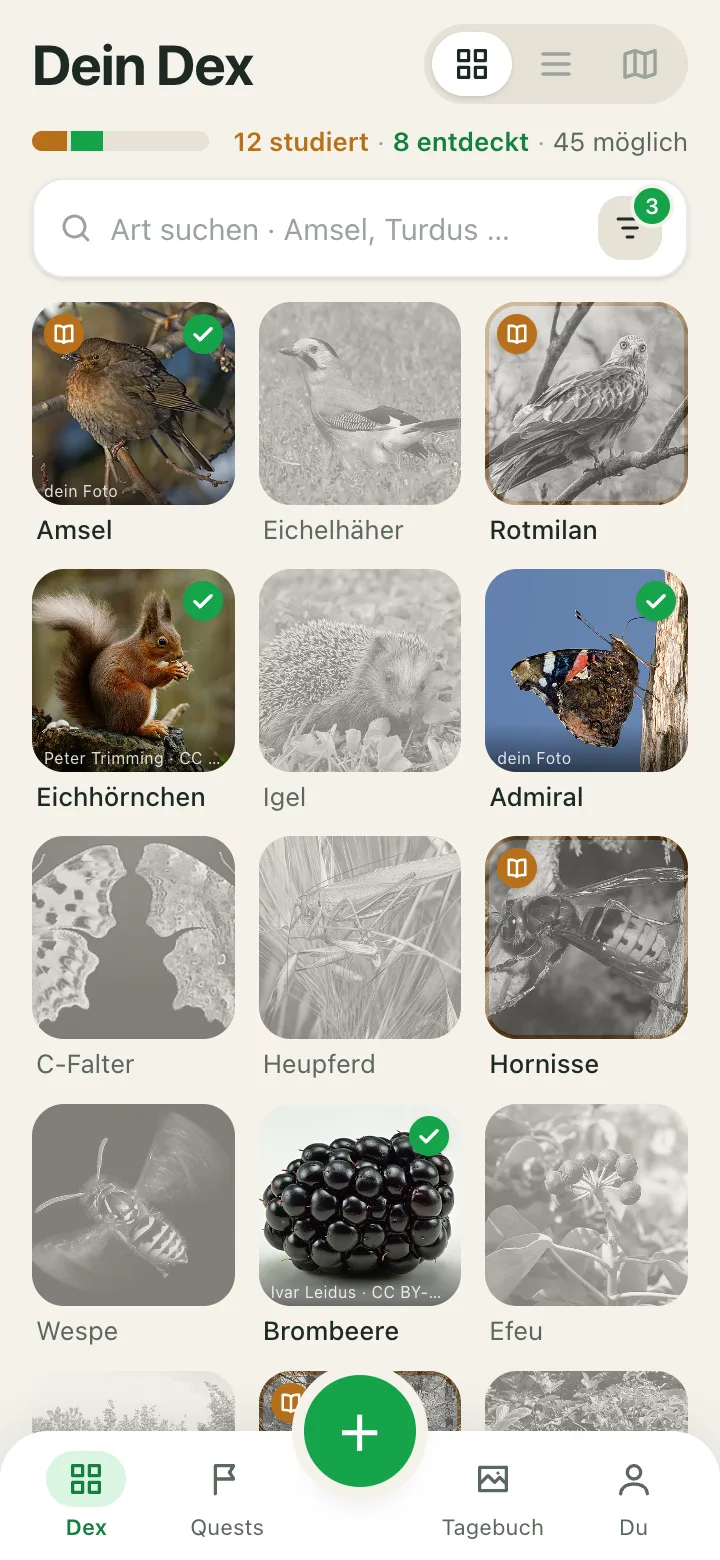
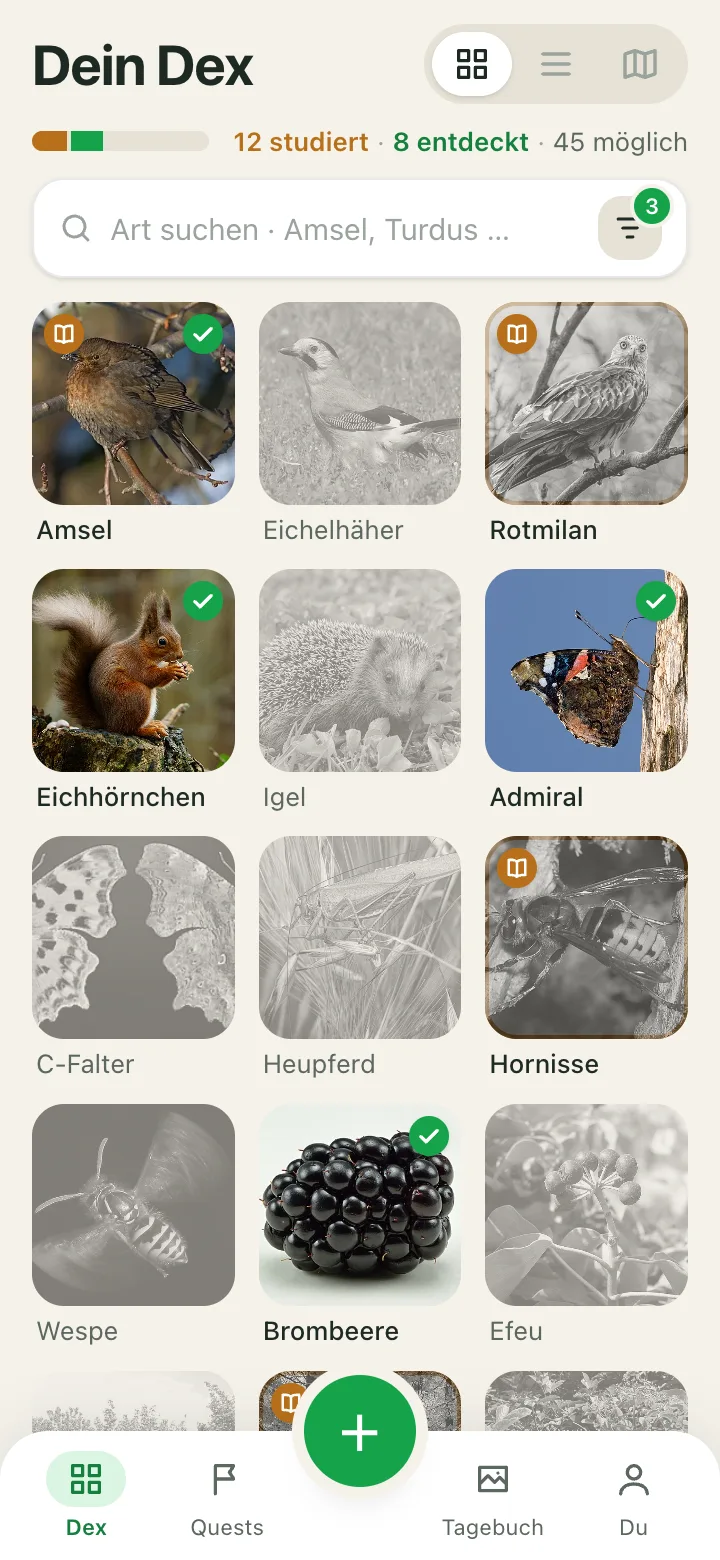
Close review 0003: spec §🎨 chosen, §⚖ rewritten, record Q8c and freeze addenda
Spec: every screen ✅ with pick, reason and shots; denominator, Landkreis and
month in §🧬; locations ladder, private progression and attribution per image
view in §⚖; bottom bar and i18n in §🏗. Record §📎: Q8c XP as private
progression, freeze removed. Findings: answers to the blocking doubts.
Spike: "ohne Punkte" → "ohne Rangliste", per-cell captions dropped, shots
reshot; stale silhouette-era shots kept under docs/adr/…/superseded/.

diff --git a/spike/ui/src/screens/GridA.tsx b/spike/ui/src/screens/GridA.tsx
@@ -32,9 +32,6 @@ function Cell({ s, filling = false }: { s: Species; filling?: boolean }) {
         {(st === 'seen' || st === 'both') && photo && (
           <>
             <img src={photo.url} alt="" className="h-full w-full object-cover" loading="lazy" />
-            <span className="absolute inset-x-0 bottom-0 truncate bg-gradient-to-t from-black/55 to-transparent px-1.5 pt-3 pb-0.5 text-[8px] leading-tight text-white/85">
-              {s.state.userPhoto ? 'dein Foto' : `${photo.author.split(/[,(]/)[0].trim()} · ${photo.license}`}
-            </span>
           </>
         )}
         {filling && photo && <img src={photo.url} alt="" className="absolute inset-0 h-full w-full object-cover" />}
@@ -59,7 +56,7 @@ export default function GridA({ fill, hideBar = false }: { fill?: string; hideBa
       <div className="grid grid-cols-3 gap-x-3 gap-y-3 px-4">
         {order.map((s) => <Cell key={s.id} s={s} filling={s.id === fill} />)}
       </div>
-      <p className="px-4 pt-4 text-[11px] text-ink-faint">Graue Bilder: Wikimedia Commons und iNaturalist, Lizenz und Autor auf jeder Artseite. Farbig wird, was du findest.</p>
+      <p className="px-4 pt-4 text-[11px] text-ink-faint">Bilder: Wikimedia Commons und iNaturalist, Autor und Lizenz auf jeder Artseite. Farbig wird, was du entdeckst.</p>
       {!hideBar && <BottomBar />}
     </Screen>
   )

diff --git a/spike/ui/src/screens/Quests.tsx b/spike/ui/src/screens/Quests.tsx
@@ -86,7 +86,7 @@ export function Quests() {
       </header>
       <div className="space-y-3 px-4">
         {walk ? <WalkPlan /> : QUESTS.map((q) => <QuestCard key={q.id} q={q} />)}
-        <p className="pt-1 text-[12px] leading-snug text-ink-faint">Quests werden montags aus deinem Dex erzeugt: was jetzt draußen ist, was womit zusammenhängt, was du studiert und entdeckt hast. Keine Punkte, keine Serie, kein Ort.</p>
+        <p className="pt-1 text-[12px] leading-snug text-ink-faint">Quests werden montags aus deinem Dex erzeugt: was jetzt draußen ist, was womit zusammenhängt, was du studiert und entdeckt hast. Keine Rangliste, keine Serie, kein Ort.</p>
         <section className="pt-3">
           <h2 className="mb-2 text-[15px] font-bold text-ink-soft">Letzte Woche</h2>
           <ul className="divide-y divide-ink/5 rounded-2xl bg-card px-3 shadow-sm ring-1 ring-ink/5">

diff --git a/spike/ui/src/screens/Onboarding.tsx b/spike/ui/src/screens/Onboarding.tsx
@@ -15,7 +15,7 @@ export function OnboardRegion({ variant = 'location' }: { variant?: 'location' |
       <div className="relative px-6 pb-8">
         <p className="text-[13px] font-semibold tracking-wide text-moss-soft uppercase">Standkreis Dex</p>
         <h1 className="mt-1 text-[32px] leading-[1.1] font-bold">Alles, was vor deiner Haustür lebt.</h1>
-        <p className="mt-2 text-[16px] text-white/80">Lern es kennen. Find es draußen. Ohne Konto, ohne Punkte.</p>
+        <p className="mt-2 text-[16px] text-white/80">Lern es kennen. Find es draußen. Ohne Konto, ohne Rangliste.</p>
         <div className="mt-8">
           <p className="text-[13px] text-white/70">Wo gehst du spazieren?</p>
           {variant === 'location' ? (

diff --git a/spike/ui/src/screens/Settings.tsx b/spike/ui/src/screens/Settings.tsx
@@ -108,7 +108,7 @@ export function Settings() {
           <Row label="Open Source" value="GitHub" />
           <Row label="Version" value="0.1 · Spike" />
         </Group>
-        <p className="pb-2 text-center text-[12px] leading-snug text-ink-faint">Kein Konto, keine Punkte, keine Werbung. Kostenlos, für immer.</p>
+        <p className="pb-2 text-center text-[12px] leading-snug text-ink-faint">Kein Konto, keine Rangliste, keine Werbung. Kostenlos, für immer.</p>
       </div>
       <BottomBar active="you" />
     </Screen>

diff --git a/docs/specs/0001-standkreis-dex-the-first-walk.md b/docs/specs/0001-standkreis-dex-the-first-walk.md
@@ -4,7 +4,7 @@
 
 | 🗓 Date | 👤 Owner | 🎯 Status |
 | --- | --- | --- |
-| 2026-09-04 | Sven Reiser | Grilled · awaiting UI exploration (step 4) |
+| 2026-09-04 | Sven Reiser | Grilled · UI chosen ([review 0003](../handoffs/0003-ui-spike-review.md)) · next: the Next.js scaffold |
 
 ---
 
@@ -26,7 +26,7 @@ A **personal collection layer over open biodiversity data**, on web and phone, t
 | --- | --- |
 | A species-identification engine | The ID engine is a commodity you rent (Pl@ntNet, BioCLIP 2). iNaturalist's model is closed. Accuracy is not the moat. |
 | A science platform | No identifier community, no research-grade pipeline. Sightings can be *exported* to iNaturalist later; they are never *the* dataset. |
-| A leaderboard | Volume rewards degrade behaviour and churn users. No XP, no global ranks, no rarity multipliers. |
+| A leaderboard | Volume rewards degrade behaviour and churn users. No ranks, no comparison, no rarity multipliers. XP exists as **private progression** (record Q8c): capped, never shown to anyone else, never on a share card. |
 | A social network in v1 | Share-out cards only. Friends and feeds are possible later on the same identity model, and are where every competitor's ethics problems live. |
 | A foraging or toxicity guide | The best app scores 74% on real poisoning cases. Fungi are in the dex; edibility is never stated. |
 | A reading app | Learning is progress, but only *seeing* fills a silhouette. See §Two axes. |
@@ -68,22 +68,24 @@ stateDiagram-v2
     Silhouette --> Seen : log sighting
     Studied --> StudiedAndSeen : log sighting
     Seen --> StudiedAndSeen : mark studied
-    state "Silhouette" as Silhouette
-    state "Studied · outlined + mark" as Studied
-    state "Seen · filled" as Seen
-    state "Studied + Seen · filled + mark" as StudiedAndSeen
+    state "Not yet · greyscale" as Silhouette
+    state "Studied · amber ring + 📖" as Studied
+    state "Seen · colour + ✓" as Seen
+    state "Studied + Seen · colour + both" as StudiedAndSeen
 ```
 
 | Axis | Set by | Renders as | Counts on home |
 | --- | --- | --- | --- |
-| 📖 **Studied** | Opening the species page and marking it, optionally passing a two-question recap | Outlined silhouette with a mark | "42 studied" |
-| 👁 **Seen** | Logging a sighting: claimed (no proof), photographed, or ID-assisted | Filled with your photo if there is one, else the reference image | "17 found" |
+| 📖 **Studied** | Opening the species page and marking it. XP for studied is paid only after the two-question recap; until the recap exists, studied earns nothing | Greyscale image, amber ring and 📖 | "12 studiert" |
+| 👁 **Seen** | Logging a sighting: claimed (no proof), photographed, or ID-assisted | Colour photo, yours if there is one, else the reference image, and a green ✓ | "8 entdeckt" |
+
+Both counters sit over a **denominator**, the plausible set of the active filter: "12 studiert · 8 entdeckt · 22 möglich". It changes with region, groups and month. Du shows the same three numbers over the whole year; the gap between the two is the seasonal pull and stays visible. The denominator is not a score.
 
 Learning makes winter a season instead of a churn cliff. Seeing stays the only thing that fills the grid, so the walk stays the payoff. Quests (deferred) bridge the two: *study three species that arrive in April* → *the three you studied are flying now within 10 km*.
 
 ### The plausible set
 
-The dex shows the species with **enough recorded observations in your filter region**, computed from GBIF and iNaturalist occurrence facets per grid cell, thresholded, optionally per month. Move the region, the dex changes. Logging searches the **full GBIF backbone**, so anything found outside the set joins your dex the moment you see it.
+The dex shows the species with **enough recorded observations in your filter region**, computed from GBIF and iNaturalist occurrence facets per grid cell, thresholded, per month. Month ("Zeitraum") is a first-class part of the filter and defaults to now; "Ganzes Jahr" is the other option. The user picks and sees a **Landkreis** ("Mainz-Bingen"); plausibility is computed over the union of its cells. Move the region, the dex changes. Logging searches the **full GBIF backbone**, so anything found outside the set joins your dex the moment you see it.
 
 The threshold is the curation. Tune it until "what I could find on Saturday" is what the grid shows; that tuning is a first-slice task, not a later one.
 
@@ -99,7 +101,7 @@ The threshold is the curation. Tune it until "what I could find on Saturday" is 
 | Intro text | Wikipedia in the user's language | CC BY-SA | Attribute, share-alike on the text |
 | **Ecology: interactions** | **GloBI** API: eats, eatenBy, pollinates, hostOf, parasiteOf, visitsFlowersOf | per source, mostly CC0/CC BY | The one thing no competitor has |
 | Ecology: habitat, traits | EOL TraitBank, IUCN habitat classification | CC BY / research use | Coverage uneven; honest empty states |
-| Photos | Wikimedia Commons; iNaturalist CC0 / CC BY / CC BY-NC | per file | **Per-image attribution stored and rendered** |
+| Photos | Wikimedia Commons; iNaturalist CC0 / CC BY / CC BY-NC | per file | **Attribution stored per image, rendered per image view** (§⚖) |
 | Sounds | Xeno-canto API v3 (key required) | mostly CC BY-NC-SA | Fine under free-forever |
 | Plant ID assist (deferred) | Pl@ntNet API | free 500/day, non-profit tier | |
 | Everything-else ID assist (deferred) | BioCLIP 2, self-hosted | MIT | ViT-L, server-side |
@@ -119,10 +121,11 @@ Every asset carries its licence and attribution in the database. If free-forever
 | Species data | **ETL into Postgres**: taxa, plausibility per cell/month, interactions, assets with attribution. Refreshed on a schedule, not at request time | Nature APIs are slow and rate-limited; the dex must open offline-ish |
 | Offline | Service worker caches the dex for the active filter; sightings queue and sync | Nature has no signal |
 | Geo | GeoJSON in ordinary columns, grid-cell keys for plausibility. No PostGIS unless the cell math outgrows a loop | Same standing constraint as the sibling repos |
+| Language | German and English from the scaffold, every string behind an i18n key | The owner is user #1 and German; the product is global. Vocabulary is fixed in German first (studiert · entdeckt) |
 
 ### Navigation
 
-Bottom app bar. Home is **the dex under the global filter**, grid view in the first slice, list and map views deferred. Filters (region, species groups) are first-class and set during onboarding.
+Bottom app bar **Dex · Quests · ＋ · Tagebuch · Du**; the ＋ is an action, not a tab. Home is **the dex under the global filter**, grid view in the first slice, list and map views deferred. Filters (region, groups, month) are first-class and set during onboarding. In slice one the Quests tab holds a single "kommt bald" line (Q10 stands); Tagebuch is the sightings by day; Du is counters, XP, groups, export, delete and the passkey upgrade, with Einstellungen behind a gear.
 
 ---
 
@@ -146,7 +149,7 @@ flowchart LR
 
 - [ ] Onboarding sets a region and species groups in under a minute, no account, no permission dialogs before they're needed.
 - [ ] Home shows the plausible set for that filter as a silhouette grid, and the set feels like "what I could find on Saturday" to Sven.
-- [ ] A species page composes GBIF, Wikidata, Wikipedia and GloBI, renders per-image attribution, and shows an honest empty state where a source has nothing.
+- [ ] A species page composes GBIF, Wikidata, Wikipedia and GloBI, renders attribution per image view (caption under the image, one Quellen line per page), and shows an honest empty state where a source has nothing.
 - [ ] Marking a species studied changes its rendering in the grid and the home counter.
 - [ ] Logging a sighting by search and claim, with or without a photo, fills the silhouette and updates the counter. Species outside the plausible set are searchable and join the dex.
 - [ ] Sightings and studies persist under the anonymous identity, survive a reload, and sync to a second browser once a passkey is attached.
@@ -173,30 +176,38 @@ flowchart LR
 | Rule | Mechanism |
 | --- | --- |
 | Sensitive species never show precise locations to anyone but their observer | Auto-obscure IUCN threatened and nationally protected taxa to a cell; coarsen all locations on share cards; strip EXIF GPS on share |
+| Locations go down a ladder | Stored exact on the device; shown as **Gemeinde** on every list (Tagebuch, save screen); exact only on the single sighting; the 10 km cell on the species map; coarse on anything shared. The save screen says so: "genau gespeichert · geteilt nur grob" |
+| Progression is private | XP and level appear on Du and on Tagebuch rows only: never on a share card, never compared to anyone, no decay, no streak, no rarity multiplier, repeats capped to once per species and month. Studied pays only after the recap. The only public-facing numbers are the two counters and their denominator |
 | No incentive to approach, handle or disturb | No rarity multipliers, no location-pinned quests, quest on habitats and seasons not coordinates |
 | Wild only | Wild / captive / cultivated prompt on sighting; captive sightings never fill the dex |
 | No lethal certainty | No edibility or toxicity statements of our own anywhere. Third-party intro text (Wikipedia) may mention it; fungi pages carry a standing legal notice: no statement, no guarantee, text not checked by us |
 | Your data is yours | Export and delete in one screen, both identity states |
 | No AI-generated imagery | User photos or licensed reference images with attribution |
+| Attribution per image view | Caption on every image at readable size (species page, fill sheet, onboarding splash); one sources line under the grid and one Quellen line at the bottom of every species page; full author and licence on long-press. No caption per grid cell. Copied Wikipedia intros carry CC BY-SA share-alike until they are rewritten from the facts |
+| Name and photo are yours | Both optional, local only, never in a sync payload before a passkey exists, never on a share card |
 
 ---
 
-## 🎨 UI (step 4, in progress)
+## 🎨 UI (step 4, chosen)
 
-Explored in [handoff 0002](../handoffs/0002-ui-exploration-spike.md); variants and reasons in the [findings](../handoffs/0002-ui-exploration-findings.md). ✅ = chosen by the owner, 🔍 = still in exploration.
+Explored in [handoff 0002](../handoffs/0002-ui-exploration-spike.md); variants, owner picks and the 46 doubts in the [findings](../handoffs/0002-ui-exploration-findings.md); checks and answers in [review 0003](../handoffs/0003-ui-spike-review.md). Every screen ✅.
 
-1. 🔍 **Onboarding**: region, species groups, the promise, in under a minute, engaging not a form.
-2. ✅ **Dex grid**: flat 3-column tiles with the German name under each; silhouette = grey filled shape, studied = amber outline + open-book badge, seen = photo fills the tile (own photo first, else the reference image), studied + seen = photo + badge. Two counters plus the plausible total as denominator. One search field with a filter button that shows only the count of active filters; region, month, groups, state and sort live in a bottom drawer. [Grid](../adr/0001-standkreis-dex-the-first-walk/0002-grid-a.webp) · [drawer](../adr/0001-standkreis-dex-the-first-walk/0002-grid-a-filter-drawer.webp). Rejected: photo cut into a generic silhouette, per-cell state text.
-3. ✅ **Species page**: full page. Full-width image slider with attribution under it, three names, the two-axis state line, singular tags (Vogel · einheimisch · IUCN), intro with Wikipedia attribution, year strip in words and bars, OpenStreetMap map with the coarse 10 km cell, ecology as chip rows grouped by kind where each chip carries the target's own dex state, honest empty state, sticky "Gelernt" and "Gesehen" buttons. Fungus pages carry the legal notice. [Amsel](../adr/0001-standkreis-dex-the-first-walk/0002-species-p1-amsel.webp) · [Fliegenpilz](../adr/0001-standkreis-dex-the-first-walk/0002-species-p1-fungus-notice.webp). Rejected: radial graph, bottom sheet. Back must restore the grid's filter and scroll position.
-4. 🔍 **Log a sighting**: search, claim, optional photo, wild/captive, done in three taps outdoors in sunlight.
-5. ✅ **The fill moment**: in the grid, not over it. The cell irises from silhouette to photo (own photo, else the reference image) with a green ring and the found counter ticking once; a compact sheet from below names what was saved ("Gefunden · Eichelhäher · 4. Sep · Mainz-Bingen · Ort grob gespeichert"), labels a reference-image fill with its attribution, offers "Foto" only when none is attached, and leads on with "Zur Art ›". No acknowledge button, no confetti, no number beyond the counter. One medium haptic when the photo lands. Repeat finds get a quiet toast and no fill. [Reference fill](../adr/0001-standkreis-dex-the-first-walk/0002-fill-sheet.webp) · [own photo](../adr/0001-standkreis-dex-the-first-walk/0002-fill-sheet-own-photo.webp). Rejected: full-screen card (a share card in disguise), silhouette outline resting on the photo.
-6. 🔍 **Bottom bar**: which four or five destinations.
+1. ✅ **Onboarding**: three screens, one action each. A dark photographic splash with a real Commons photo and its caption, the promise, then "Meinen Standort nutzen" with the OS permission explained *before* it appears ("wir speichern nur den Landkreis"), "Ort eingeben" as the fallback. Groups as tiles, all on, tap to switch off. A ready screen with the filtered count for this month, nine grey tiles and one line per axis. No account or sync mention before the first sighting. Reason: outdoors nobody types, and the explained ask is what Seek never did. [region](../adr/0001-standkreis-dex-the-first-walk/0002-onboard-1-region.webp) · [groups](../adr/0001-standkreis-dex-the-first-walk/0002-onboard-2-groups.webp) · [ready](../adr/0001-standkreis-dex-the-first-walk/0002-onboard-3-ready.webp). Rejected: search first, a skip on the groups screen.
+2. ✅ **Dex grid**: flat 3-column tiles with the German name under each. Not yet discovered = the reference image in greyscale at 45 %; studied = greyscale at 70 % with an amber inset ring and a 📖 badge; discovered = colour photo (own first, else the reference image) with a green ✓; both badges when both. Header: title, grid · list · map toggle, one bar amber-then-green with "12 studiert · 8 entdeckt · 22 möglich", möglich being the active filter's set. One search field with a filter button that shows only the count; region, Zeitraum, groups, state and sort in a bottom drawer; a bottom-right button takes over once the bar scrolls away. One sources line under the grid, no caption per cell. Back restores filter and scroll. [grid](../adr/0001-standkreis-dex-the-first-walk/0002-grid-a.webp) · [dark](../adr/0001-standkreis-dex-the-first-walk/0002-grid-a-dark.webp) · [drawer](../adr/0001-standkreis-dex-the-first-walk/0002-grid-a-filter-drawer.webp) · [360](../adr/0001-standkreis-dex-the-first-walk/0002-grid-a-360.webp). Rejected: group silhouettes (generic, not reproducible), photo cut into a silhouette, per-cell state text, the "likely now" dot.
+3. ✅ **Species page**: full page. Image slider with the caption under it, three names, the two-axis state row (📖 studiert · ✓ entdeckt · date), the Wikipedia intro, then sections: **Steckbrief** (Größe · Alter · Nachwuchs · Lebensraum · Zug · Status · Stimme), **Vorkommen** (year strip in words and bars, OpenStreetMap with the 10 km cell), **Verwechslungsgefahr** (look-alike tiles carrying dex state), **Ökologie** (chip rows by kind, each chip carrying the target's dex state, honest empty state). One faint Quellen line at the bottom; section headers carry no source. Sticky "Studiert" and "Entdeckt". Fungus pages carry the legal notice above the intro. [Amsel](../adr/0001-standkreis-dex-the-first-walk/0002-species-p1-amsel.webp) · [sections](../adr/0001-standkreis-dex-the-first-walk/0002-species-p1-amsel-scrolled.webp) · [bottom](../adr/0001-standkreis-dex-the-first-walk/0002-species-p1-amsel-scrolled-2.webp) · [Fliegenpilz](../adr/0001-standkreis-dex-the-first-walk/0002-species-p1-fungus-notice.webp) · [dark](../adr/0001-standkreis-dex-the-first-walk/0002-species-p1-amsel-dark.webp). Rejected: radial graph, sheet over grid, 4:3 hero, an ecology score, a "Beschreibung" heading.
+4. ✅ **Log a sighting**: the centred ＋ opens a chooser (Foto · Galerie · Suchen, Suchen primary). Search with an empty query *is* the shortlist ("jetzt wahrscheinlich · noch nicht entdeckt"); typing searches the whole backbone. Save on one screen: species, when, where ("genau gespeichert · geteilt nur grob"), optional photo, note; the save button is the wild/captive answer, "Wild · speichern" primary and "Gehalten · speichern" secondary. Three taps outdoors. "Entdeckt" on a species page jumps straight to the save screen. Reason: the wild/captive question is unavoidable but free, and the camera is visible but not first (Q10). [chooser](../adr/0001-standkreis-dex-the-first-walk/0002-log-1-chooser.webp) · [shortlist](../adr/0001-standkreis-dex-the-first-walk/0002-log-2-search-empty.webp) · [results](../adr/0001-standkreis-dex-the-first-walk/0002-log-2-search-results.webp) · [save](../adr/0001-standkreis-dex-the-first-walk/0002-log-3-save.webp). Rejected: a separate wild/captive dialog, camera as the default tile, a confirm step after save.
+5. ✅ **The fill moment**: in the grid, not over it. The cell sweeps from grey to colour (own photo, else the reference image) with a green ring and the entdeckt counter ticking once; a compact sheet from below names what was saved ("Entdeckt · Eichelhäher · 4. Sep · Mainz-Bingen · Ort grob gespeichert"), labels a reference-image fill with its attribution, offers "Foto" only when none is attached, and leads on with "Zur Art ›". No acknowledge button, no confetti, no XP on the sheet. One medium haptic when the photo lands. Repeats get a quiet toast and no fill. [sheet](../adr/0001-standkreis-dex-the-first-walk/0002-fill-sheet.webp) · [own photo](../adr/0001-standkreis-dex-the-first-walk/0002-fill-sheet-own-photo.webp). Rejected: full-screen card (a share card in disguise), silhouette outline resting on the photo.
+6. ✅ **Bottom bar**: Dex · Quests · ＋ · Tagebuch · Du, one stroke icon set, the ＋ raised and centred as an action. Tagebuch earns its tab because the sighting is the atom (Q1). Quests holds a single "kommt bald" line in slice one. [bar](../adr/0001-standkreis-dex-the-first-walk/0002-grid-a.webp). Rejected: a Lernen tab, Missions, Social, more than five.
 
-**Design language, chosen:** light default (the walk is in sunlight), paper background, white cards, saturated green primary for surfaces and a darker green for text, amber for the studied axis. Dark theme follows the system later. Splash and onboarding may use a dark photographic mood, with a real Commons photo and attribution, never AI imagery.
+Mocked ahead of their slice and chosen, not built in slice one: **7 Quests** as three cards with the why sentence, **8 Tagebuch** by day with Neu entdeckt · Studiert chips and no chip on repeats, **9 Einstellungen** behind a gear, **10 Du** with a blue XP bar and level, region and group progress. Shots and doubts in the findings.
+
+**Design language, chosen:** light default (the walk is in sunlight), paper background, white cards, saturated green `#16a34a` for surfaces and `#15803d` for text. One colour per axis: **amber = studiert, green = entdeckt, blue = progression** (avatar ring, level badge, XP bar, nowhere else). Amber before green in text and bars; badges on the grid and the species state row only. Dark theme follows the system, every colour is a token, the onboarding splash stays dark in both. Vocabulary studiert · entdeckt; the mock speaks German, the app ships German and English with i18n keys from the scaffold. No AI imagery anywhere: Commons photos with captions, drawn group icons.
 
 ## ❓ Open, for later grills
 
-- Quest generation rules in detail: how many, how refreshed, what "freeze" means, how a recap works.
+- Quest generation rules in detail: how many, how refreshed, how repeats are avoided in a small region.
+- The recap: two questions per species, where they come from, what counts as passed. Until it exists, studied earns no XP.
+- The XP curve: 150 per level is the mock's number; tune on real data.
 - Snap-and-send UX: ladder animation, confidence display, correcting a wrong suggestion.
 - The plausibility threshold and cell size, once real data is on screen.
 - When exactly the passkey upgrade is offered, and how "see this on your laptop" is worded.

diff --git a/docs/handoffs/0003-ui-spike-review.md b/docs/handoffs/0003-ui-spike-review.md
@@ -4,7 +4,7 @@
 
 | 🗓 Written | 👤 Owner | ⬆ Parent | ⏱ Budget |
 | --- | --- | --- | --- |
-| 2026-09-04 | Sven Reiser | [Handoff 0002](0002-ui-exploration-spike.md) · [Findings](0002-ui-exploration-findings.md) | 1 session, no new mocks · §🧪 run 2026-09-04 |
+| 2026-09-04 | Sven Reiser | [Handoff 0002](0002-ui-exploration-spike.md) · [Findings](0002-ui-exploration-findings.md) | 1 session, no new mocks · ✅ done 2026-09-04 |
 
 ---
 
@@ -83,30 +83,30 @@ Each "wrong if" from handoff 0002, plus the rules the spike added. Tick, or writ
 
 These are the review's real work. Each needs one of: confirm and record, or revert.
 
-| Decision | What the spike did | Needs |
-| --- | --- | --- |
-| Record Q8 "no XP, levels" | XP and levels on Du and Tagebuch, private, no leaderboard, once-a-month cap on repeats | 🙋 owner reaffirmed twice. Record addendum **Q8c** with the evidence split: competitive volume rewards vs private progression. Spec §⚖ line on "no number goes up" rewritten |
-| Record Q8 "weekly with a freeze" | Freeze removed: nothing to protect without a streak | Record Q8 one-line amendment; spec §❓ drops "what freeze means" |
-| Spec §⚖ "attribution on every image" | One caption per view: grid footer, photo caption, Quellen line per species page | Spec §⚖ rewritten to "per image view", share-alike note for copied intros |
-| Handoff 0002 §6 "wrong if Missions tab" | Quests tab in slot two, now | Spec §🚶 says what the tab shows in slice one: three quests or a "kommt bald" line |
-| Spec "two counters" | "45 möglich" as denominator on header and profile | Doubts 2 and 41: keep as denominator, or drop. Decide, then the header counts the filter's set and Du counts the year |
-| Spec English, global | Mock is German | Doubt 5: German stays the mock language; the real app's i18n is a scaffold question |
+| Decision | What the spike did | Needs | ✅ Result (owner, 2026-09-04) |
+| --- | --- | --- | --- |
+| Record Q8 "no XP, levels" | XP and levels on Du and Tagebuch, private, no leaderboard, once-a-month cap on repeats | 🙋 owner reaffirmed twice. Record addendum **Q8c** with the evidence split: competitive volume rewards vs private progression. Spec §⚖ line on "no number goes up" rewritten | Confirmed. Q8c written; spec §🚫 and §⚖ rewritten; "ohne Punkte" → "ohne Rangliste" on onboarding, settings and quests |
+| Record Q8 "weekly with a freeze" | Freeze removed: nothing to protect without a streak | Record Q8 one-line amendment; spec §❓ drops "what freeze means" | Confirmed. Amendment written, spec §❓ updated |
+| Spec §⚖ "attribution on every image" | One caption per view: grid footer, photo caption, Quellen line per species page | Spec §⚖ rewritten to "per image view", share-alike note for copied intros | Confirmed. Rule rewritten, and the per-cell captions on found tiles dropped from the grid |
+| Handoff 0002 §6 "wrong if Missions tab" | Quests tab in slot two, now | Spec §🚶 says what the tab shows in slice one: three quests or a "kommt bald" line | "kommt bald". Q10 not widened; spec navigation says so |
+| Spec "two counters" | "45 möglich" as denominator on header and profile | Doubts 2 and 41: keep as denominator, or drop. Decide, then the header counts the filter's set and Du counts the year | Keep as denominator, per active filter (region, groups, month); Du per year |
+| Spec English, global | Mock is German | Doubt 5: German stays the mock language; the real app's i18n is a scaffold question | German and English in the app, i18n keys from the scaffold |
 
 ## ❓ Doubts the review must close
 
 Forty-six are on file. Most are ETL or later-slice notes. These block the spec rewrite:
 
-| Doubt | Question | Blocks |
-| --- | --- | --- |
-| 2, 41 | Is "möglich" a third counter, and is it September or the year | Header copy, spec §🧬 |
-| 13 | Landkreis in the UI, grid cell in the spec | Onboarding, every "Mainz-Bingen" |
-| 17, 29 | Exact point stored, shown as Gemeinde, never on a list | Spec §⚖ wording |
-| 23, 25 | What makes "studiert" true when it is one tap | Species page action, quests, XP tariff |
-| 35 | XP without a record entry | Record Q8c |
-| 39 | Name and photo on an anonymous-first product | Du, Einstellungen › Profil |
-| 42 | Attribution per view | Spec §⚖ |
-| 45 | Fill moment reshot grey → colour | §5 shot is stale |
-| 46 | "Wiederentdeckt" chip on every repeat | Tagebuch row |
+| Doubt | Question | Blocks | ✅ Answer (owner, 2026-09-04) |
+| --- | --- | --- | --- |
+| 2, 41 | Is "möglich" a third counter, and is it September or the year | Header copy, spec §🧬 | Denominator, not a score. Header and drawer count the active filter incl. month; Du counts the year |
+| 13 | Landkreis in the UI, grid cell in the spec | Onboarding, every "Mainz-Bingen" | Landkreis is the label, plausibility is the union of its cells |
+| 17, 29 | Exact point stored, shown as Gemeinde, never on a list | Spec §⚖ wording | Ladder written into spec §⚖: device exact · list Gemeinde · single sighting exact · map 10 km · share coarse |
+| 23, 25 | What makes "studiert" true when it is one tap | Species page action, quests, XP tariff | XP for studied only after the two-question recap; until then it earns nothing |
+| 35 | XP without a record entry | Record Q8c | Written under the record's §📎 |
+| 39 | Name and photo on an anonymous-first product | Du, Einstellungen › Profil | Optional, local only, never synced before a passkey, never shared |
+| 42 | Attribution per view | Spec §⚖ | Rewritten; per-cell captions dropped from the grid |
+| 45 | Fill moment reshot grey → colour | §5 shot is stale | Reshot, closed |
+| 46 | "Wiederentdeckt" chip on every repeat | Tagebuch row | No chip on repeats |
 
 Everything else stays open in the findings and moves to the ETL or slice-two grills untouched.
 

diff --git a/docs/handoffs/0002-ui-exploration-findings.md b/docs/handoffs/0002-ui-exploration-findings.md
@@ -414,3 +414,23 @@ Routes: `#/grid/a`, `?bar=learn`, `?bar=five`. Same grid, three bars.
 | # | Doubt | Proposal |
 | --- | --- | --- |
 | 18 | **What is under "Du" in slice one?** No profile, no account | Counters, region and groups (the onboarding again), export JSON, delete everything, the passkey upgrade once offered. That is the acceptance criteria list, so it is enough for a tab and it is where the legal texts live |
+
+## ✅ Answered in review 0003 (owner, 2026-09-04)
+
+The doubts that blocked the spec rewrite, one line each. Everything not listed stays open and moves to the ETL or slice-two grills.
+
+| Doubt | Answer |
+| --- | --- |
+| 1, 42 | Attribution **per image view**. One sources line under the grid, caption on every readable image, Quellen line per species page, full author and licence on long-press. The per-cell captions on found tiles are dropped |
+| 2, 41 | "möglich" stays as the denominator, not a score. It counts the **active filter's set**: region, groups and Zeitraum, so 22 in September and 44 with "Ganzes Jahr". Du counts the year. Onboarding names the month |
+| 4 | Confirmed: month is a first-class filter, defaulting to now |
+| 5 | Mock stays German; the app ships German and English with i18n keys from the scaffold |
+| 13 | The Landkreis is the label the user picks and sees; plausibility is computed over the union of its cells. Cell size is the ETL grill's |
+| 17, 29 | The ladder: exact on the device, Gemeinde on every list, exact only on the single sighting, 10 km cell on the species map, coarse on share. Spec §⚖ carries it |
+| 23, 25 | Studied earns XP only after the two-question recap. Until the recap exists, studied is one tap and earns nothing |
+| 35 | Record addendum Q8c written: XP private and capped, with the five rules as tests. The three "keine Punkte" lines became "keine Rangliste" |
+| 39 | Name and photo optional, local only, never in a sync payload before a passkey exists, never on a share card |
+| 45 | Closed: fill sheet reshot grey → colour |
+| 46 | No chip on repeats. Chips mark state changes only (Neu entdeckt, Studiert) |
+| Freeze | Removed, record Q8 amended |
+| Quests tab | Stays in slot two; slice one shows a single "kommt bald" line. Q10 is not widened |

diff --git a/docs/records/0001-standkreis-dex-the-first-walk.md b/docs/records/0001-standkreis-dex-the-first-walk.md
@@ -108,3 +108,7 @@ Legend: 🙋 = the human overrode the agent.
 - Sibling record, different product: `monorepo/docs/records/0009-grill-what-standkreis-is-and-what-it-refuses-to-be.md`, which deferred a "Collector" app as a capture mode into a place. This project is explicitly *not* that Collector: no connection to Standkreis, per the scoping answer. If the two ever meet, that is a new grill.
 
 ## 📎 Addenda
+
+**2026-09-04 · Q8c, XP as private progression.** 🙋 The owner reaffirmed twice, against the agent's Q8 objection, that the profile carries XP and a level. Reading of the evidence: Di Cecco, Atsumi and the iNaturalist staff quotes are about *competitive, public, volume-rewarding* systems; none covers a private, capped tariff that pays for dex state changes. Q8c therefore refines Q8 rather than reversing its reasoning: **XP exists, private only.** Tests that keep it so, all product rules now: never on a share card, never compared to anyone, no decay, no streak, no rarity multiplier, repeat finds pay once per species and month, studied pays only after the two-question recap (until the recap exists, studied earns nothing). Level is a number, no names. The "no leaderboard" refusal stands unchanged; the copy "ohne Punkte" became "ohne Rangliste". Revisit if repeat-find gaming shows in real data. Evidence and mock: [findings §10](../handoffs/0002-ui-exploration-findings.md), [review 0003](../handoffs/0003-ui-spike-review.md).
+
+**2026-09-04 · Q8, the freeze is gone.** 🙋 "Weekly with a freeze" collapses into the weekly cadence: with no streak, no XP on quests beyond the per-quest amount, and no weekly total, there is nothing a pause protects and three ignored suggestions cost nothing. The anti-binge intent of Q8 is carried by the weekly rhythm alone. If "quiet" is ever needed it is a notification mute, not a quest state.
